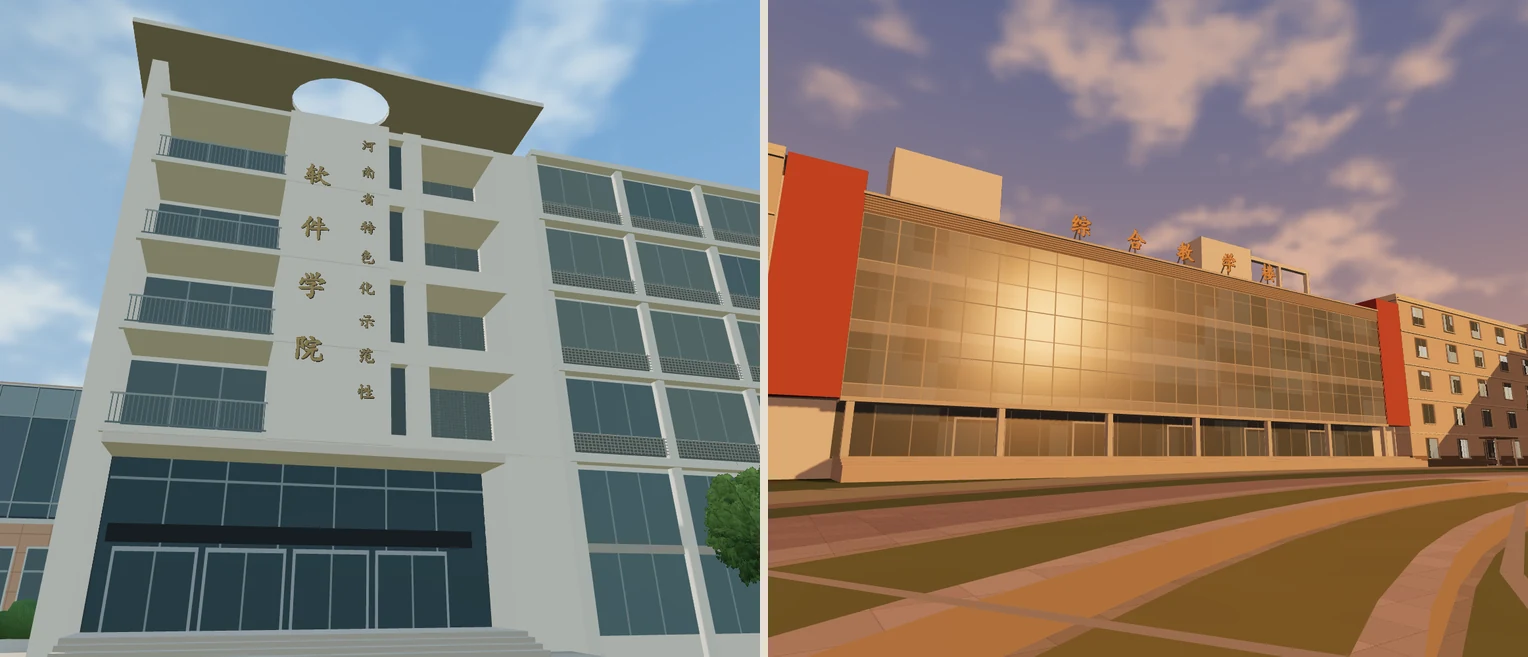
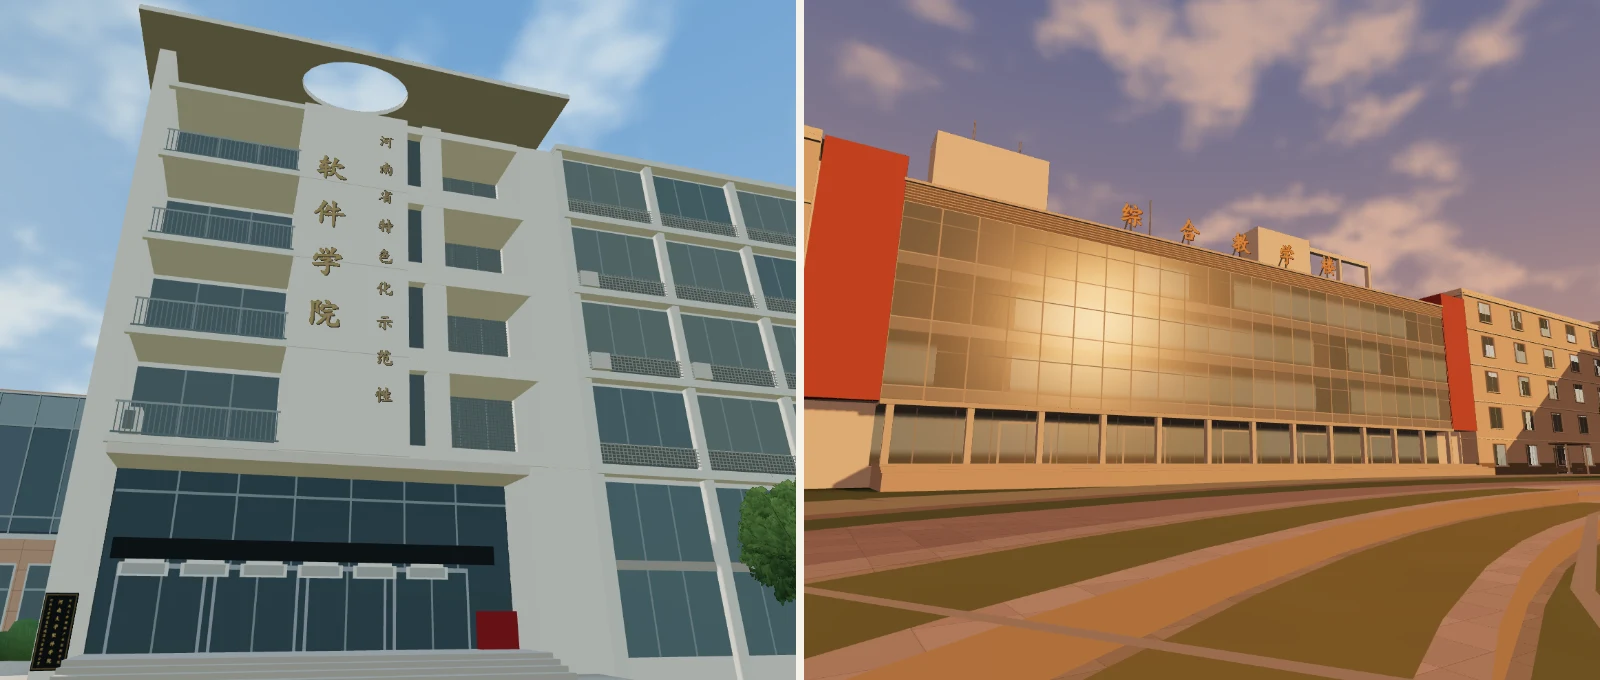
Refine photo fronts with Software College pillar/arched plaques, red foyer accent, denser arcade columns, roof masts, and warm curtain-wall interior lighting

diff --git a/photo-fronts.js b/photo-fronts.js
@@ -57,7 +57,10 @@ function squareMembers(){
     [9.63,18.64,roof,18.07,-3.68,-3.32,red],[9.63,10.02,18.07,20.76,-3.78,-3.26,pale],
     [14.00,14.32,18.07,20.76,-3.78,-3.26,pale],[18.27,18.64,18.07,20.76,-3.78,-3.26,pale],
     [9.63,18.64,20.76,21.20,-3.78,-3.26,pale]];
-  for(const u of [-24.7,-16,-8,0,8,16,24.7])p.push([u-.21,u+.21,.08,arcade,-.31,.14,'#c2c0b4']);
+  for(let i=0;i<=12;i++){
+    const u=-24.7+49.4*i/12;
+    p.push([u-.19,u+.19,.08,arcade,-.29,.14,'#c2c0b4']);
+  }
   return p;
 }
 export function* photoFrontSolids(record){
@@ -99,22 +102,29 @@ function lettering(id,d,u,y,v,text,width,height,color,horizontal=false){
   const paintAnchor=id===softwareId?d.at([(5.85+10.16)/2,(level+21.34)/2,.30]):null;
   return {id,text,point:d.at([u,y,v]),paintAnchor,yaw:Math.atan2(d.nx,d.nz),width,height,color,horizontal,spaced:true};
 }
+export const softwarePillarPlaque={
+  id:softwareId,
+  point:software().at([.44,1.98,.085]),
+  yaw:Math.atan2(software().nx,software().nz),
+  width:.78,height:1.78,
+  columns:['河南大学鲲鹏产业创新学院','河南大学软件学院','河南大学信息化建设与管理办公室']
+};
 export const photoFrontSigns=[
-  lettering(softwareId,software(),7.10,14.26,.135,'软件学院',1.53,10.22,'#b59b68'),
-  lettering(softwareId,software(),9.22,14.49,.136,'河南省特色化示范性',.85,12.44,'#b0986e'),
+  lettering(softwareId,software(),7.06,15.10,.135,'软件学院',1.64,8.35,'#b59b68'),
+  lettering(softwareId,software(),9.24,14.55,.136,'河南省特色化示范性',.84,12.15,'#b0986e'),
   lettering(teachingFrontId,teaching(),-.90,18.25,.02,'综合教学楼',24.6,2.47,'#c1a26e',true)
 ];
 // Slim cantilever, with a continuous outer lip. Construct the roof around
 // an open lightwell above the lettering so sky is visible from the doorway.
 function portalEave(d){
-  const cu=8.10,cv=-.63,l=-.62,r=17.24,back=-3.58,front=1.55,th=.24;
+  const cu=7.95,cv=-.18,l=-.62,r=17.24,back=-3.58,front=1.55,th=.24;
   const angles=Array.from({length:24},(_,i)=>i*Math.PI/12);
   for(const [u,v] of rect(l,r,back,front))angles.push((Math.atan2(v-cv,u-cu)+Math.PI*2)%(Math.PI*2));
   const rings=angles.sort((a,b)=>a-b).map(a=>{
     const x=Math.cos(a),z=Math.sin(a),t=Math.min((x>=0?r-cu:l-cu)/x,(z>=0?front-cv:back-cv)/z);
     const edgeU=cu+t*x,edgeV=cv+t*z;
     return [[edgeU,edgeV+(Math.abs(edgeV-front)<.001?.23*Math.cos((edgeU-5)*Math.PI/16):0)],
-      [cu+2.24*x,cv+1.59*z]];
+      [cu+2.28*x,cv+1.45*z]];
   });
   const point=([u,v],dy)=>[u,22.96+.18*((u-7)/9)**2+dy,v];
   for(const [i,[a,b]] of rings.entries()){
@@ -135,7 +145,18 @@ function softwareFront(){
   // The glass doors sit behind the letter wall. The black transom is part of
   // the doorway. The former freestanding roadside sign is absent.
   panes(d,.90,14.34,1.19,level-.34,-2.013,7,'#485a60');
-  panel(d,1.12,13.77,3.94,4.52,-1.966,'#393e40');
+  panel(d,1.12,13.77,3.94,4.56,-1.966,'#282c2e');
+  // Row of six arched silver/cream institute plaques hung right beneath the black LED fascia.
+  for(let i=0;i<6;i++){
+    const u=1.42+i*1.82;
+    panel(d,u,u+1.48,3.44,3.84,-1.86,'#dcd8cd','wall',1);
+    panel(d,u+.16,u+1.32,3.82,3.93,-1.855,'#e4e0d5','wall',1);
+    panel(d,u+.12,u+1.36,3.50,3.80,-1.84,'#b4b3aa','wall',1);
+  }
+  // Crimson display stand tucked inside the recessed right corner of the glazed vestibule.
+  d.box(12.95,14.28,1.32,2.46,-1.86,-1.48,'#9d302b','wall',1);
+  // Ground-floor left-pillar plaque recessed dark bronze plate (gold columns drawn in model/software).
+  d.box(.03,.85,1.06,2.90,.02,.068,'#232725','wall',1);
   panel(d,.95,14.32,5.93,6.02,-1.935,frame);
   for(const l of [1.38,4.28,7.18,10.08]){
     panel(d,l,l+2.68,1.29,3.81,-1.942,'#a2aaab');
@@ -155,6 +176,9 @@ function softwareFront(){
     // Only a few shallow joints cross the stone sign pier.
     panel(d,5.88,10.15,y+.06,y+.081,.088,'#bfb5a4','wall',1);
   }
+  // Visible condenser unit tucked in the left corner of the first-floor balcony, standing proud of the glass.
+  d.box(1.06,1.62,level+.34,level+1.16,-.68,-.04,'#d2cdc0','wall',1);
+  panel(d,1.14,1.46,level+.46,level+1.04,-.02,'#7b807b','wall',1);
   portalEave(d);
   // Beyond the entrance the classroom wing has broad grouped windows with
   // low equipment screens underneath. No lattice bars become separate meshes.
@@ -169,6 +193,7 @@ function softwareFront(){
       panes(d,l+.29,r-.04,y+1.00,y+storey-.35,.065,3,(i+j)%4?'#78847e':'#697a7a');
       panel(d,l+.30,r-.04,y+.23,y+.94,.11,'#69716c');
       panel(d,l+.30,r-.04,y+.24,y+.94,.31,'#a5a295','screen');
+      if((i===1&&j<2)||(i===2&&j===0))d.box(l+.46,l+1.20,y+.22,y+.88,.08,.44,'#cbc6ba','wall',1);
     }
   }
   for(let i=0;i<=4;i++){const y=level+i*storey;d.box(left,right,y-.21,y+.095,-.04,.53,edge);}
@@ -223,6 +248,11 @@ function teachingWest(){
     const u=-.90+24.6*((i+.5)/5-.5),base=roof+.10;
     d.group([u,18,-.55]);d.bar([u,base,-.13],[u,19.03,-.13],.048,metal);
     d.bar([u,base,-1.53],[u,18.76,-.16],.044,metal);
+  }
+  // Slender roof lightning rods / comms masts observed along the skyline.
+  for(const [u,y0,y1,v] of [[-21.4,21.31,23.2,-2.4],[-18.2,21.31,22.9,-2.9],[-8.4,roof+.10,20.6,-1.6]]){
+    d.group([u,(y0+y1)/2,v]);
+    d.bar([u,y0,v],[u,y1,v],.042,'#8d928f',1);
   }
   return d.groups;
 }

diff --git a/building-detail.js b/building-detail.js
@@ -375,8 +375,10 @@ export function addBuildingDetails(scene, data, { Batch, contains, bounds }) {
     if(material==='exposed-body')continue; // Already supplied by the extruded solid in WebGL.
     const target=material==='brick'?brick:material==='glass'||material==='curtain'?glass:material==='canopy'?canopy:
       material==='ground'?plazaGround:material==='foliage'?foliage:material==='rail'||Object.hasOwn(pattern,material)?fence:masonry;
-    // A continuous reflective curtain does not light up like a grid of rooms.
-    target.quad(...points,color,material==='curtain'?.06:1);
+    // Continuous reflective curtain walls carry a distinct roomGlow tag (0.28) so
+    // dusk/night renders show horizontal interior classroom ceiling strip lighting
+    // instead of a random dorm checkerboard.
+    target.quad(...points,color,material==='curtain'?.28:1);
     if(target===fence){
       const y=material==='rail'?Math.min(...points.map(p=>p[1])):pattern[material];
       railBases.push(y,y,y,y);
@@ -525,7 +527,7 @@ export function addBuildingDetails(scene, data, { Batch, contains, bounds }) {
   const nightGlowUniform = { value: 0 };
   if (windowChunks.length) {
     const winMat = windowChunks[0].material;
-    winMat.customProgramCacheKey = () => 'campus-window-glaze-v2';
+    winMat.customProgramCacheKey = () => 'campus-window-glaze-v3';
     winMat.onBeforeCompile = shader => {
       shader.uniforms.uNightGlow = nightGlowUniform;
       shader.vertexShader = 'attribute float roomGlow;varying float vRoomGlow;varying vec3 vWinPos;\n' + shader.vertexShader
@@ -533,11 +535,24 @@ export function addBuildingDetails(scene, data, { Batch, contains, bounds }) {
       shader.fragmentShader = 'uniform float uNightGlow;varying float vRoomGlow;varying vec3 vWinPos;\n' + shader.fragmentShader
         .replace('#include <emissivemap_fragment>', `#include <emissivemap_fragment>
         if (uNightGlow > 0.01) {
-          vec3 cell = floor(vec3(vWinPos.x / 3.8 + vWinPos.z * 0.13, vWinPos.y / 3.45, vWinPos.z / 3.8 - vWinPos.x * 0.11));
-          float h = fract(sin(dot(cell, vec3(127.1, 311.7, 74.7))) * 43758.5453);
-          float lit = step(0.54, h);
-          vec3 warmTone = mix(vec3(1.0, 0.78, 0.45), vec3(0.95, 0.91, 0.80), fract(h * 19.3));
-          totalEmissiveRadiance += warmTone * lit * (0.45 + 0.65 * fract(h * 7.7)) * uNightGlow * vRoomGlow;
+          if (vRoomGlow < 0.5) {
+            // Subtle warm interior classroom strip glow behind continuous curtain glass & ground arcade.
+            float bay = floor(vWinPos.z / 4.2);
+            float fl = floor(max(0.0, vWinPos.y - 0.9) / 3.68);
+            float fy = fract(max(0.0, vWinPos.y - 0.9) / 3.68);
+            float band = smoothstep(0.18, 0.34, fy) * (1.0 - smoothstep(0.72, 0.88, fy));
+            float h = fract(sin(dot(vec2(bay, fl), vec2(63.7, 211.3))) * 43758.5453);
+            float isGround = step(vWinPos.y, 4.55);
+            float lit = mix(step(0.32, h) * 0.52, 0.65, isGround) * band;
+            vec3 warmStrip = mix(vec3(1.0, 0.72, 0.34), vec3(1.0, 0.84, 0.56), fract(h * 13.7));
+            totalEmissiveRadiance += warmStrip * lit * uNightGlow * (vRoomGlow * 1.45);
+          } else {
+            vec3 cell = floor(vec3(vWinPos.x / 3.8 + vWinPos.z * 0.13, vWinPos.y / 3.45, vWinPos.z / 3.8 - vWinPos.x * 0.11));
+            float h = fract(sin(dot(cell, vec3(127.1, 311.7, 74.7))) * 43758.5453);
+            float lit = step(0.54, h);
+            vec3 warmTone = mix(vec3(1.0, 0.78, 0.45), vec3(0.95, 0.91, 0.80), fract(h * 19.3));
+            totalEmissiveRadiance += warmTone * lit * (0.45 + 0.65 * fract(h * 7.7)) * uNightGlow * vRoomGlow;
+          }
         }`);
     };
   }

diff --git a/model.js b/model.js
@@ -10,7 +10,7 @@ import { campusAvenueData, avenueTrees, avenueHedgeRuns } from './avenue.js';
 import { fieldGround, entryGap, putFieldTrees, walkingWater } from './field-ground.js';
 import { buildingSolids, hallId } from './wenfu.js';
 import { steppedIds } from './landmark-wings.js';
-import {photoFrontIds} from './photo-fronts.js';
+import {photoFrontIds,softwarePillarPlaque} from './photo-fronts.js';
 import { residences } from './dongyuan.js';
 import { labId, labPlaque, physicsGroundHeight, physicsCourt } from './physics.js';
 import { facultyColors, visibleSigns, facultyHeights } from './faculty-sites.js';
@@ -364,6 +364,25 @@ function buildScene(scene, data, trees, anisotropy=1) {
     const map=new T.CanvasTexture(cv);map.colorSpace=T.SRGBColorSpace;map.anisotropy=anisotropy;
     const sign=new T.Mesh(new T.PlaneGeometry(width,height),new T.MeshStandardMaterial({map,alphaTest:.20,roughness:.76}));
     sign.position.set(...point);sign.rotation.y=yaw;sign.name=text;scene.add(sign);
+  }
+  if(data.building.some(b=>b[4]===softwarePillarPlaque.id)){
+    const {point,yaw,width,height,columns}=softwarePillarPlaque;
+    const cv=document.createElement('canvas');cv.width=180;cv.height=410;
+    const ctx=cv.getContext('2d');
+    ctx.fillStyle='#1f2321';ctx.fillRect(0,0,180,410);
+    ctx.strokeStyle='#8e7544';ctx.lineWidth=5;ctx.strokeRect(4,4,172,402);
+    ctx.textAlign='center';ctx.textBaseline='middle';
+    const xs=[144,90,36];
+    columns.forEach((col,ci)=>{
+      const main=ci===1;
+      ctx.font=`bold ${main?28:18}px KaiTi,STKaiti,SimSun,serif`;
+      ctx.fillStyle=main?'#deb764':'#c7a154';
+      const step=366/col.length;
+      [...col].forEach((ch,i)=>ctx.fillText(ch,xs[ci],22+(i+.5)*step));
+    });
+    const map=new T.CanvasTexture(cv);map.colorSpace=T.SRGBColorSpace;map.anisotropy=anisotropy;
+    const plate=new T.Mesh(new T.PlaneGeometry(width,height),new T.MeshStandardMaterial({map,roughness:.72}));
+    plate.position.set(...point);plate.rotation.y=yaw;plate.name='Software college pillar plaque';scene.add(plate);
   }
   if(data.building.some(b=>b[4]===labId)){
     const {text,width,height,point,yaw}=labPlaque;

diff --git a/software.js b/software.js
@@ -5,7 +5,7 @@ import { buildingSolids, hallId, reportFacade } from './wenfu.js';
 import { physicsModel, labId, labPlaque } from './physics.js';
 import { eastModels, protectedTeachingEdge, teachingId, stadiumSign, standId, boundaryLines } from './east-campus.js';
 import { centralModels, axisCustomEdge } from './central-axis.js';
-import {behindCurtain} from './photo-fronts.js';
+import {behindCurtain,softwarePillarPlaque} from './photo-fronts.js';
 import { facultyModels, facultyColors, facultyEdge, visibleSigns } from './faculty-sites.js';
 import { hasMarco,isMarcoRing,marcoHole,surveyedCourtPlan } from './campus-commons.js';
 import { westGatePlacement } from './west-gate.js';
@@ -170,6 +170,17 @@ export function softwareRenderer(data,palette,trees,inside){
     const {point:[x,y,z],text,width,color}=stadiumSign;
     objects.push({center:[x,y,z],normal:[-1,0,0],parts:[],sign:()=>{
       [...text].forEach((ch,i)=>glyph(ch,[x,y,z+width*((i+.5)/text.length-.5)],1.82,color));
+    }});
+  }
+  if(data.building.some(b=>b[4]===softwarePillarPlaque.id)){
+    const {point:[x,y,z],width,height,yaw,columns}=softwarePillarPlaque;
+    const nx=Math.sin(yaw),nz=Math.cos(yaw),tx=nz,tz=-nx;
+    objects.push({center:[x,y,z],normal:[nx,0,nz],parts:[],sign:()=>{
+      [...columns[1]].forEach((ch,i)=>glyph(ch,[x,y+height*(.42-i*.118),z],.17,'#deb764'));
+      for(const [ci,off] of [[0,width*.28],[2,-width*.28]]){
+        const col=columns[ci];
+        [...col].forEach((ch,i)=>glyph(ch,[x+tx*off,y+height*(.44-i*(.88/col.length)),z+tz*off],.11,'#c7a154'));
+      }
     }});
   }
   if(data.building.some(b=>b[4]===labId)){

diff --git a/README.md b/README.md
@@ -55,7 +55,7 @@ node server.mjs
 
 ## 实拍参考细化
 
-从[软件学院入口近看](https://gavin0915023-dev.github.io/henu-jinming-map/?view=software-portal)，四层敞廊右侧的浅色实墙上有两列竖字：“软件学院”和“河南省特色化示范性”。入口玻璃退在字墙下面；花坛和步道上没有旧街景里的独立立牌。
+从[软件学院入口近看](https://gavin0915023-dev.github.io/henu-jinming-map/?view=software-portal)，四层敞廊右侧的浅色实墙上有两列竖字：“软件学院”和“河南省特色化示范性”，一楼左柱挂有黑底金字三联院名牌，黑色电子屏下排着六块荣誉挂牌；入口玻璃退在字墙下面，花坛和步道上没有旧街景里的独立立牌。
 
 从[图书馆一侧望综合教学楼（黄昏）](https://gavin0915023-dev.github.io/henu-jinming-map/?view=teaching-library&light=sunset)，连续的幕墙和屋顶五个分开安装的字正对广场。换成[正午](https://gavin0915023-dev.github.io/henu-jinming-map/?view=teaching-library&light=noon)可比较玻璃反光。两处视角均以使用者提供的照片为依据，进深和构件尺寸为估计值。
 
